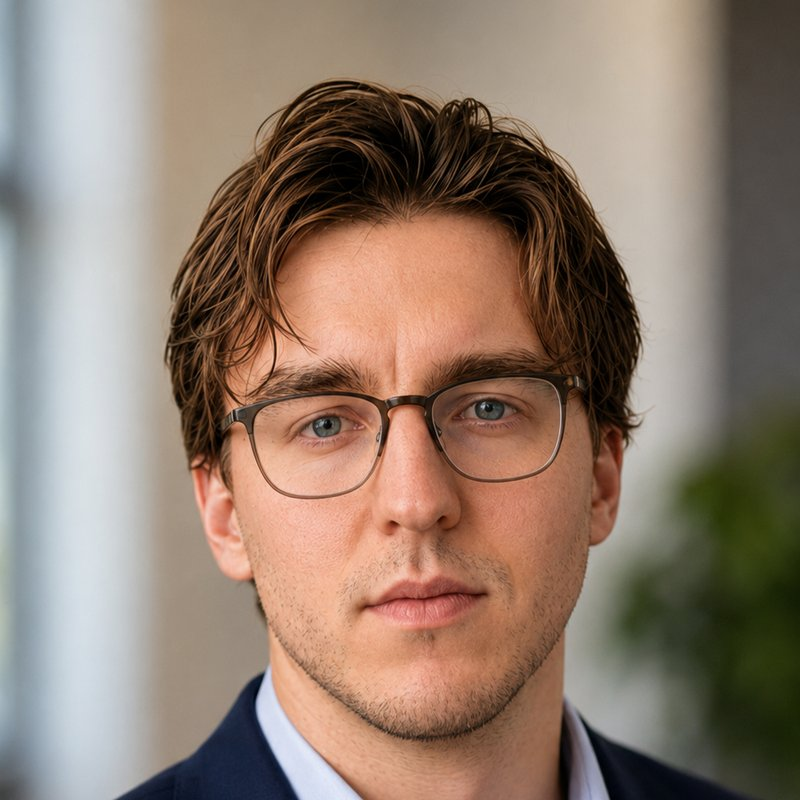
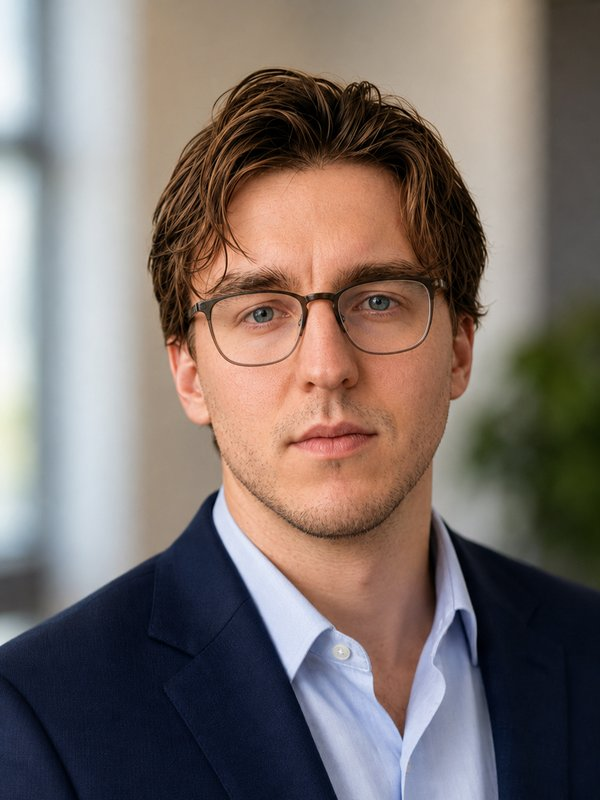
Show the whole headshot as a smaller rounded portrait

diff --git a/src/styles/global.css b/src/styles/global.css
@@ -323,6 +323,9 @@ main > .foot { max-width: 72rem; }
 .placeholder-btn { background: transparent; color: var(--muted); border: 1px dashed var(--muted); cursor: default; }
 .placeholder-photo { border: 2px dashed var(--muted); font-size: 0.85rem; text-align: center; line-height: 1.3; font-family: var(--mono); }
 @media (max-width: 759px) { .headshot { width: 6.5rem; height: 6.5rem; font-size: 1.6rem; order: -1; } .display { font-size: 3.2rem; } }
+/* The real photo shows whole, as a small rounded portrait instead of a circle. */
+img.headshot { width: 8.25rem; height: 11rem; border-radius: 12px; object-fit: cover; object-position: top; }
+@media (max-width: 759px) { img.headshot { width: 4.875rem; height: 6.5rem; } }
 
 /* The project filter hides cards with the hidden attribute; .card sets display:flex, so force it. */
 [hidden] { display: none !important; }
